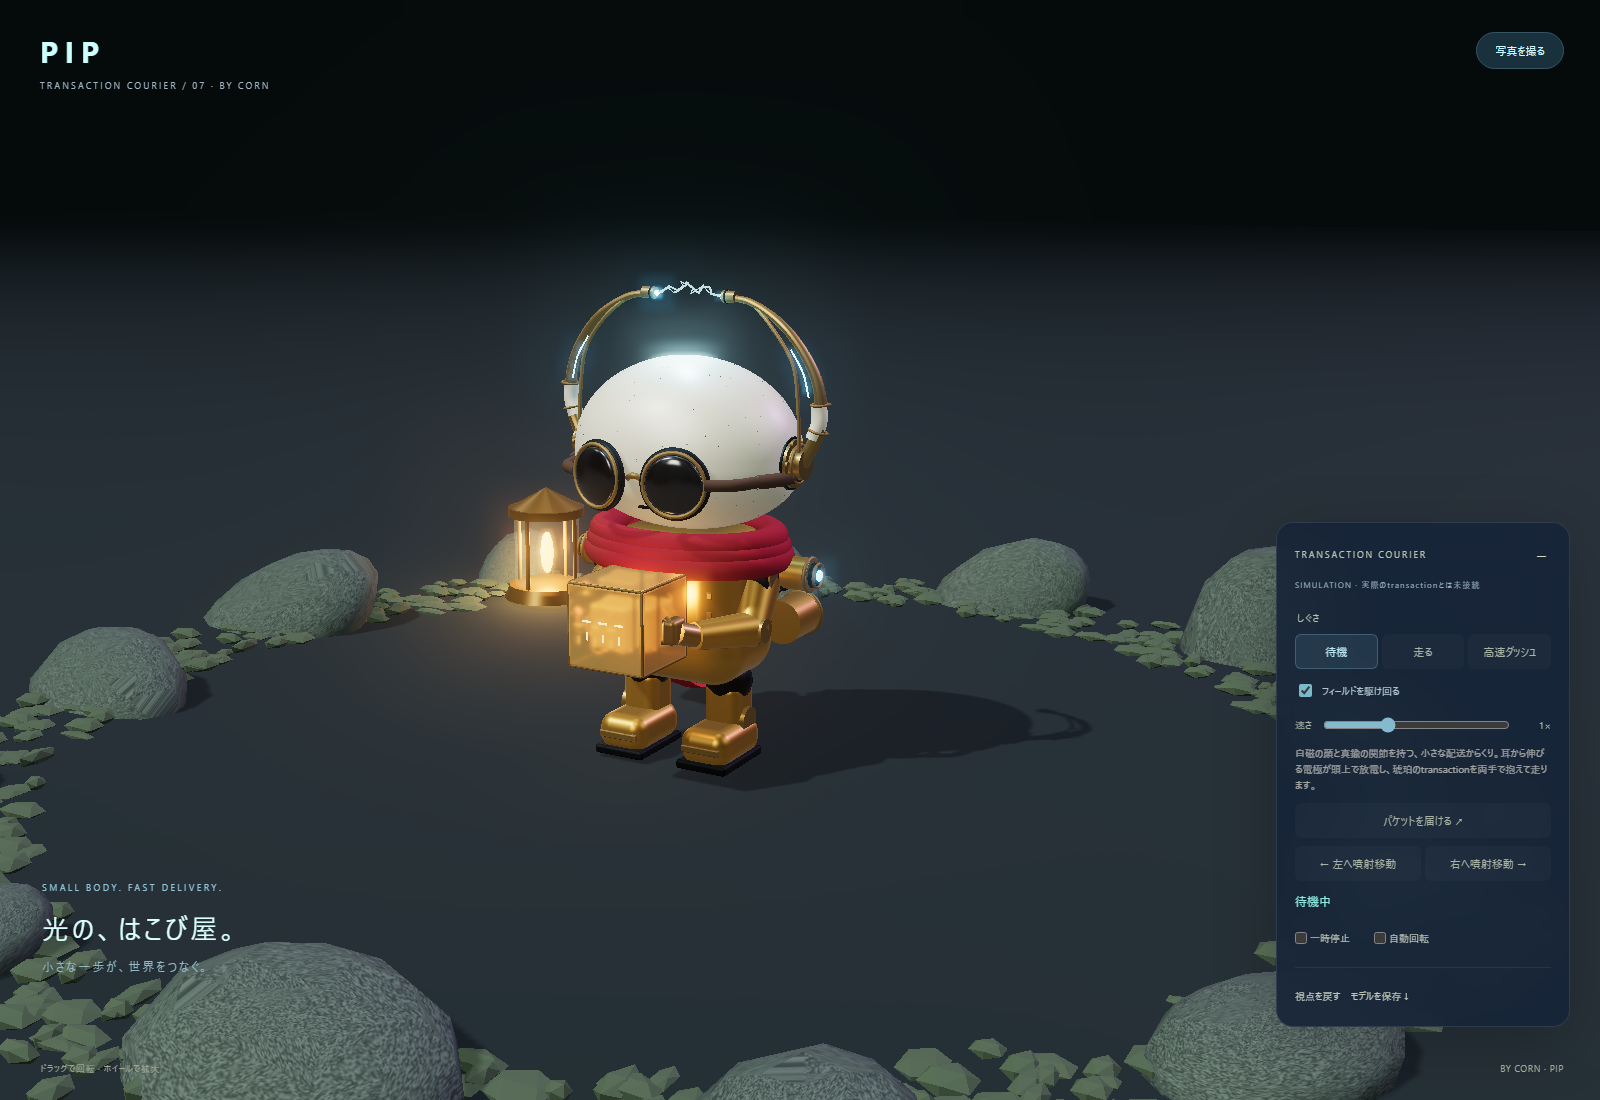
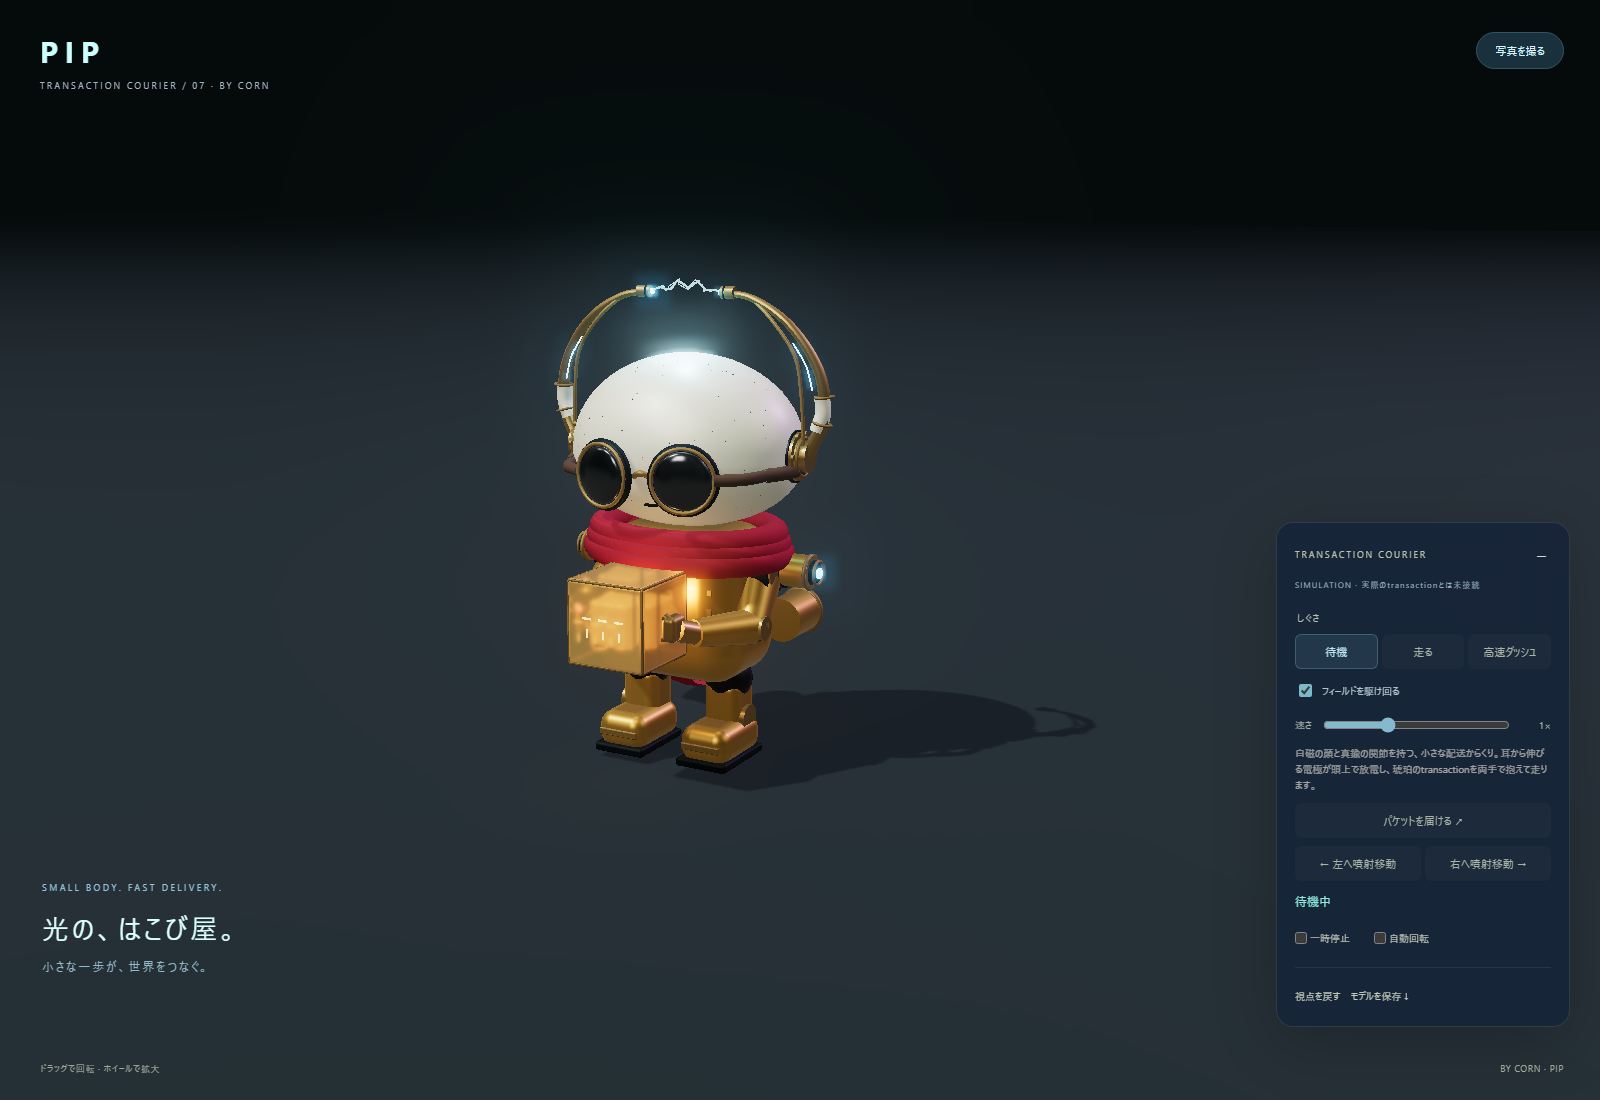
Reshoot PIP's card on the cleared stage, and let it stay small
The thumbnail still had the old rocks and standing lantern in frame. It is
retaken on the bare stage, and the crop is deliberately wider than parity:
PIP is the small one of the seven, so the card shows it that way instead of
scaling it up to match.

Changed region(s): [[0.0, 0.2782, 0.875, 1.0], [0.375, 0.2473, 0.4688, 0.2782]]

diff --git a/shared/series.js b/shared/series.js
@@ -72,7 +72,9 @@ export const SERIES = [
   },
   {
     id: 'pip',
-    crop: {x: 446, y: 230, w: 440, h: 587},
+    // A wider box than parity would give: PIP is the small one, and the card
+    // lets it read that way instead of scaling it up to the others.
+    crop: {x: 424, y: 164, w: 540, h: 720},
     no: '07',
     name: 'PIP',
     role: 'TRANSACTION COURIER',
